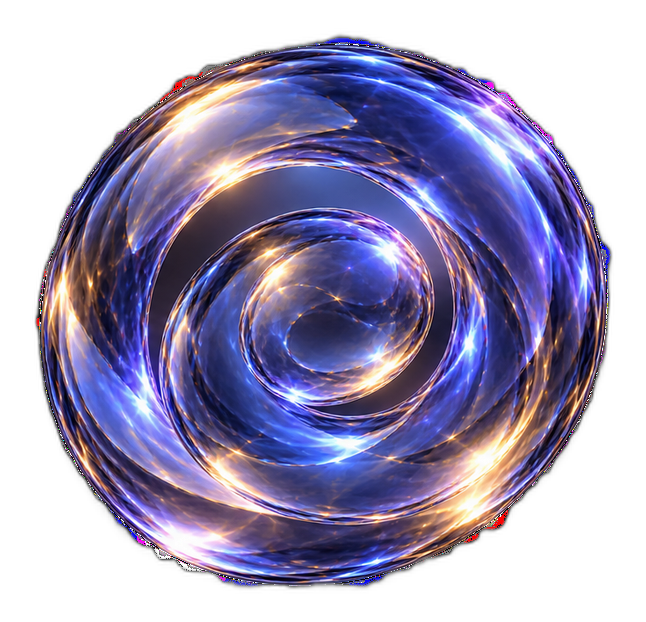
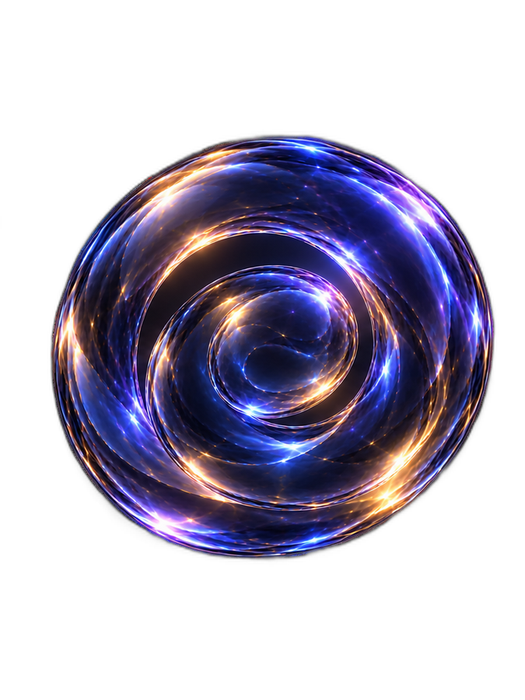
Fix nested glass-tile-inside-a-card issue; swap hero, process, and services assets
- Process tiles (Discover/Define/Design/Develop/Deliver) already have
  their glass frame baked into the source image. Was wrapping them in
  an additional glass-frame CSS box, creating a nested card look.
  Now rendered bare, no extra container.
- Services icons (raw un-framed sculptures) now render with ambient
  glow only on hover, no border/background box at rest
- Hero sculpture swapped to new swirl-orb asset
- Process 'Design' and 'Deliver' tiles swapped to new knot/paperplane
- Services 'Web Design' and 'Motion Design' icons swapped to new
  cleaner cube/spiral cutouts

diff --git a/src/pages/Home.tsx b/src/pages/Home.tsx
@@ -5,7 +5,7 @@ import { MagneticLink } from "@/components/site/MagneticLink";
 import { projects } from "@/data/projects";
 import { services } from "@/data/services";
 
-import heroSphere from "@/assets/v2/soft-blob.png";
+import heroSphere from "@/assets/v2/hero-swirl.png";
 import glassRibbon from "@/assets/glass-ribbon.png";
 import glassWave from "@/assets/glass-wave.png";
 import glassDroplet from "@/assets/glass-droplet.png";
@@ -43,18 +43,32 @@ const featured = ["burger-bliss", "financial-advisor", "sai-real-estate"].map(
   (s) => projects.find((p) => p.slug === s)!,
 );
 
-function GlassTile({ img, alt, className = "" }: { img: string; alt: string; className?: string }) {
+/** Process tiles already have their glass frame baked into the source image — render bare, no extra box. */
+function ProcessTile({ img, alt, className = "" }: { img: string; alt: string; className?: string }) {
   return (
-    <div className={`glass-frame glass-frame-hover glass-edge relative overflow-hidden rounded-2xl ${className}`}>
+    <div className={`relative ${className}`}>
+      <img src={img} alt={alt} className="h-full w-full object-contain" />
+    </div>
+  );
+}
+
+/** Services icons are raw un-framed sculptures — presented directly with ambient glow only, no border/card box. */
+function SculptureIcon({ img, alt, className = "" }: { img: string; alt: string; className?: string }) {
+  return (
+    <div className={`group relative ${className}`}>
       <div
-        className="pointer-events-none absolute inset-[10%] rounded-full opacity-60 blur-2xl"
+        className="pointer-events-none absolute inset-[6%] rounded-full opacity-0 blur-2xl transition-opacity duration-500 group-hover:opacity-70"
         style={{
           background:
-            "radial-gradient(60% 60% at 40% 40%, color-mix(in oklab, var(--ice) 12%, transparent), transparent 70%), radial-gradient(50% 50% at 65% 65%, color-mix(in oklab, var(--champagne) 10%, transparent), transparent 70%)",
+            "radial-gradient(60% 60% at 40% 40%, color-mix(in oklab, var(--ice) 14%, transparent), transparent 70%), radial-gradient(50% 50% at 65% 65%, color-mix(in oklab, var(--champagne) 12%, transparent), transparent 70%)",
         }}
         aria-hidden
       />
-      <img src={img} alt={alt} className="relative h-full w-full object-contain p-5" />
+      <img
+        src={img}
+        alt={alt}
+        className="relative h-full w-full object-contain transition-transform duration-500 group-hover:scale-105"
+      />
     </div>
   );
 }
@@ -184,7 +198,7 @@ export default function Home() {
             {services.map((s, i) => (
               <Reveal key={s.slug} delay={i * 70}>
                 <Link to="/services" className="group block">
-                  <GlassTile img={serviceIcons[s.slug]} alt={s.title} className="aspect-[4/3] w-full" />
+                  <SculptureIcon img={serviceIcons[s.slug]} alt={s.title} className="aspect-[4/3] w-full" />
                   <p className="mt-4 text-lg font-semibold transition-colors group-hover:text-[var(--champagne)]">
                     {s.title}
                   </p>
@@ -215,7 +229,7 @@ export default function Home() {
         <div className="mt-16 grid grid-cols-2 gap-5 sm:grid-cols-3 lg:grid-cols-5">
           {processSteps.map((s, i) => (
             <Reveal key={s.n} delay={i * 90} className="text-center">
-              <GlassTile img={s.img} alt={`${s.step} icon`} className="mx-auto aspect-square w-full" />
+              <ProcessTile img={s.img} alt={`${s.step} icon`} className="mx-auto aspect-square w-full" />
               <p className="mt-4 text-xs text-[var(--champagne)]">{s.n}</p>
               <p className="text-base font-medium">{s.step}</p>
             </Reveal>
